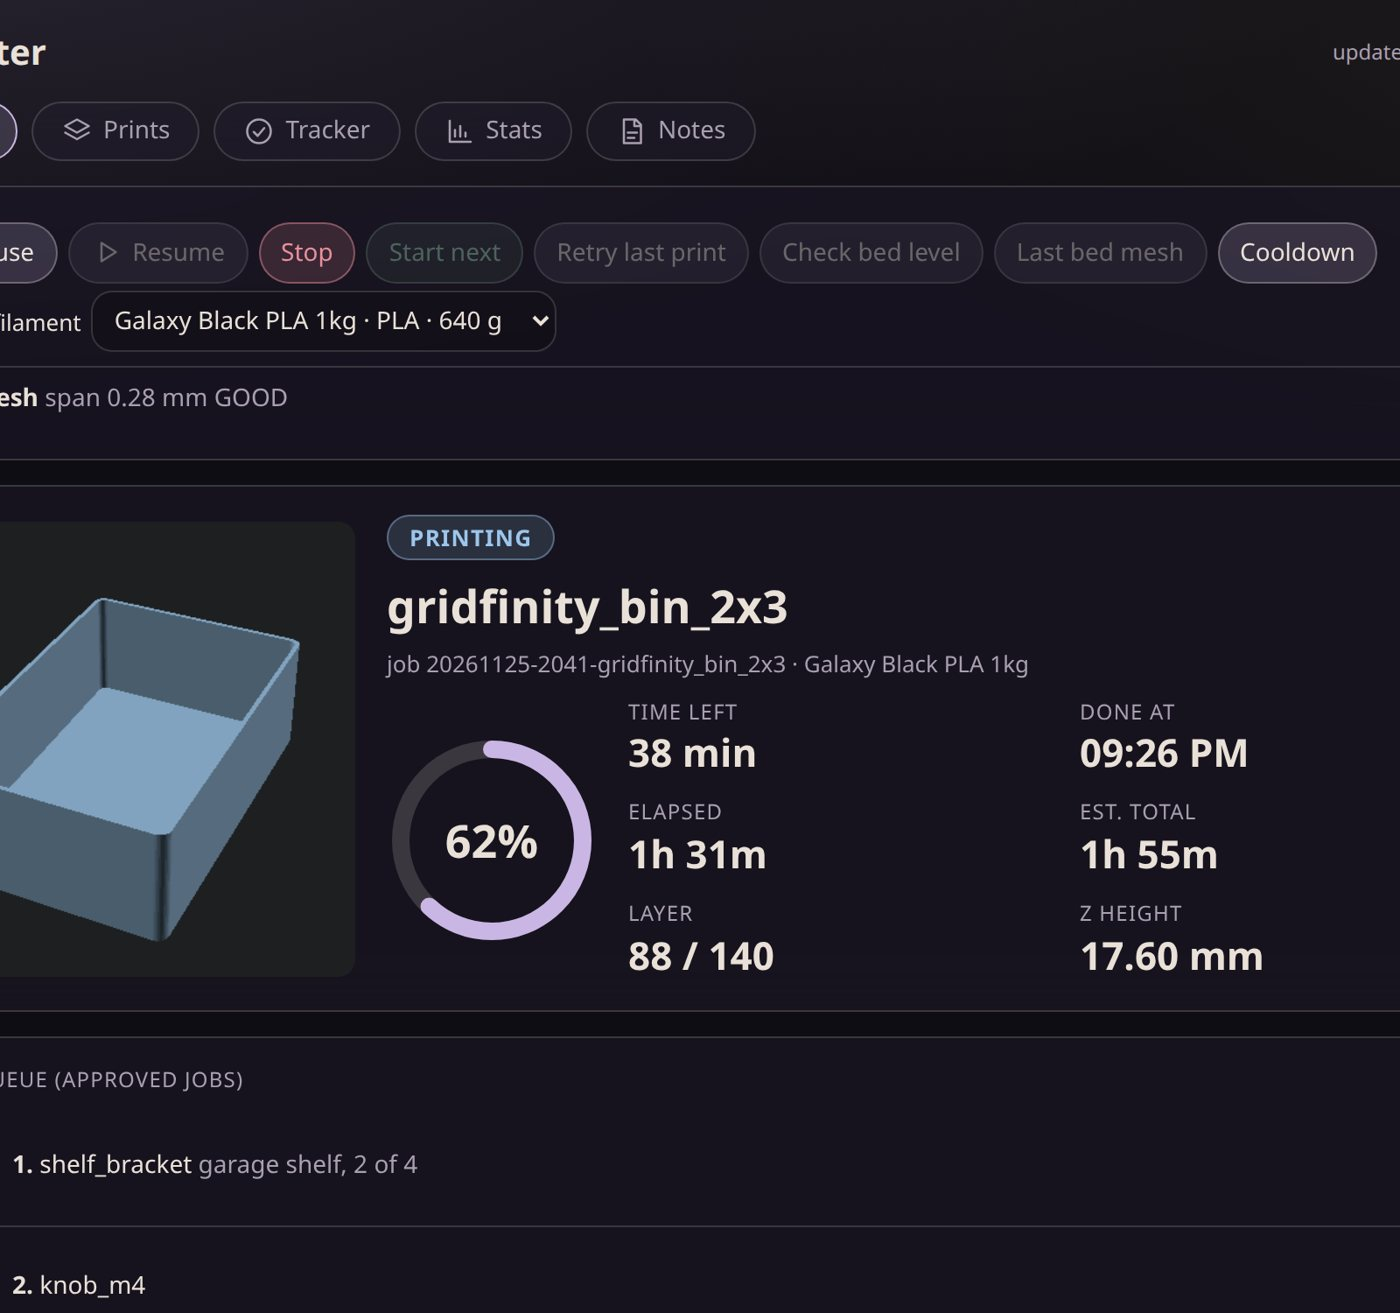
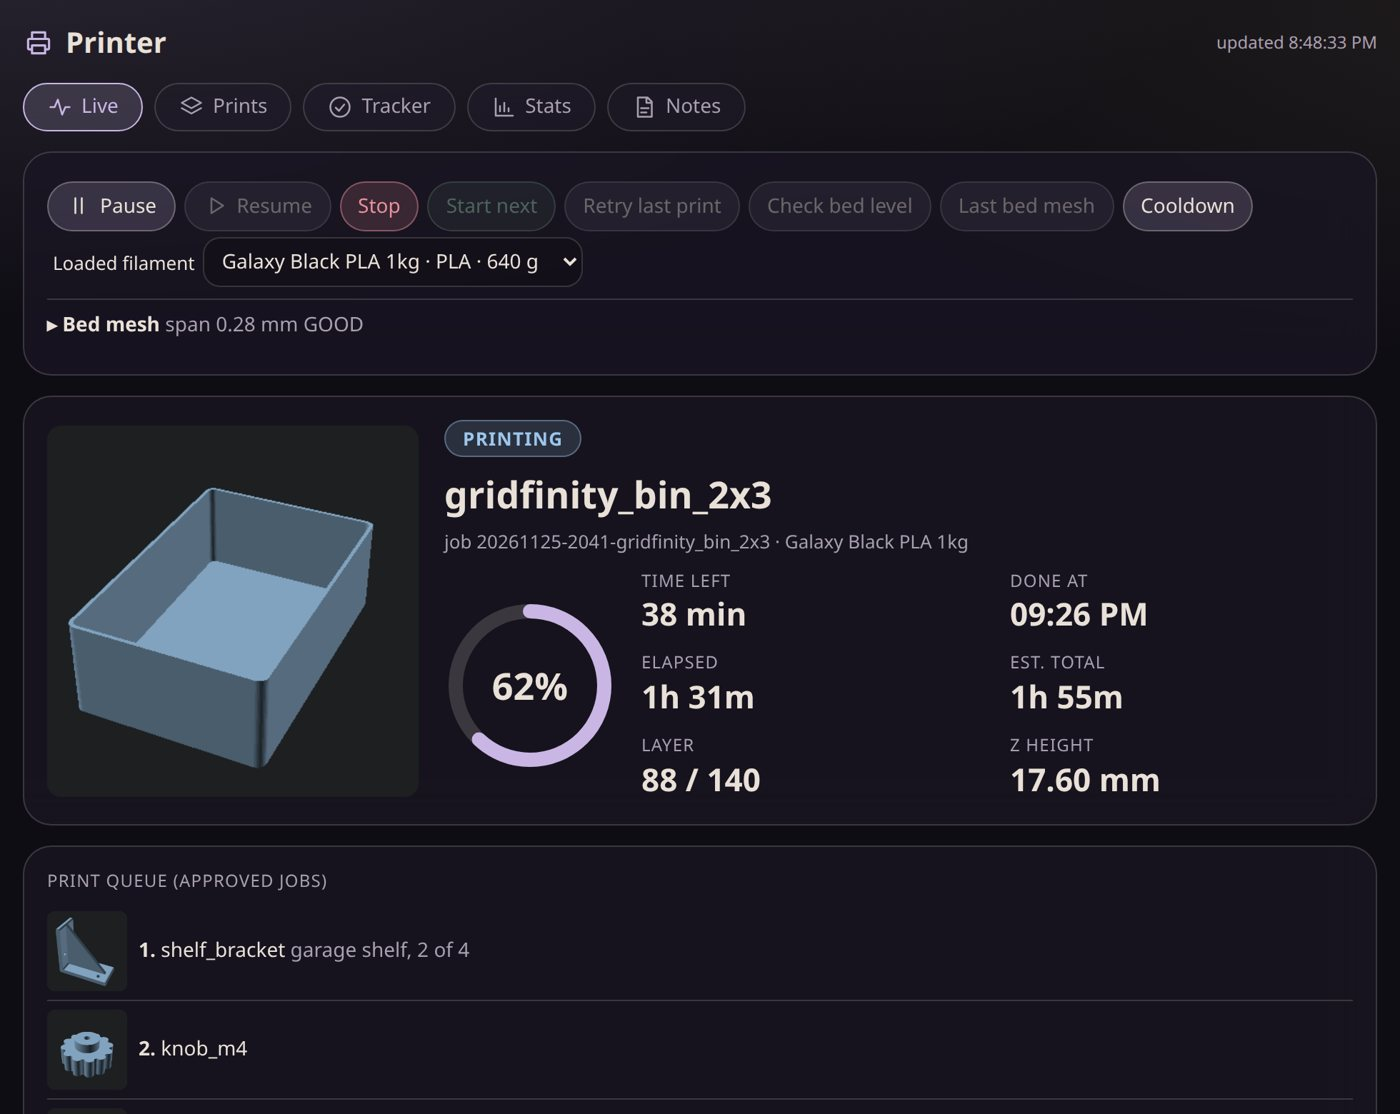
README: badges on one line, wider dashboard crop

diff --git a/README.md b/README.md
@@ -4,10 +4,7 @@
 before you slice, Orca Slicer for any of 500+ printers, background printing, a live phone dashboard and a log that
 learns what works.
 
-[![CI](https://github.com/Rambo-AI97/smart-3d-printer/actions/workflows/ci.yml/badge.svg)](https://github.com/Rambo-AI97/smart-3d-printer/actions/workflows/ci.yml)
-![Python](https://img.shields.io/badge/python-3.11%2B-blue)
-![Platform](https://img.shields.io/badge/platform-Linux-lightgrey)
-[![License: MIT](https://img.shields.io/badge/license-MIT-green)](LICENSE)
+[![CI](https://github.com/Rambo-AI97/smart-3d-printer/actions/workflows/ci.yml/badge.svg)](https://github.com/Rambo-AI97/smart-3d-printer/actions/workflows/ci.yml) ![Python](https://img.shields.io/badge/python-3.11%2B-blue) ![Platform](https://img.shields.io/badge/platform-Linux-lightgrey) [![License: MIT](https://img.shields.io/badge/license-MIT-green)](LICENSE)
 
 <p align="center"><img src="docs/screens/engineering.jpg" width="88%" alt="Design sheet of a shelf bracket (front, side, top, iso, dimensions, thinnest wall) above the p3d check and p3d stress results"></p>
 
